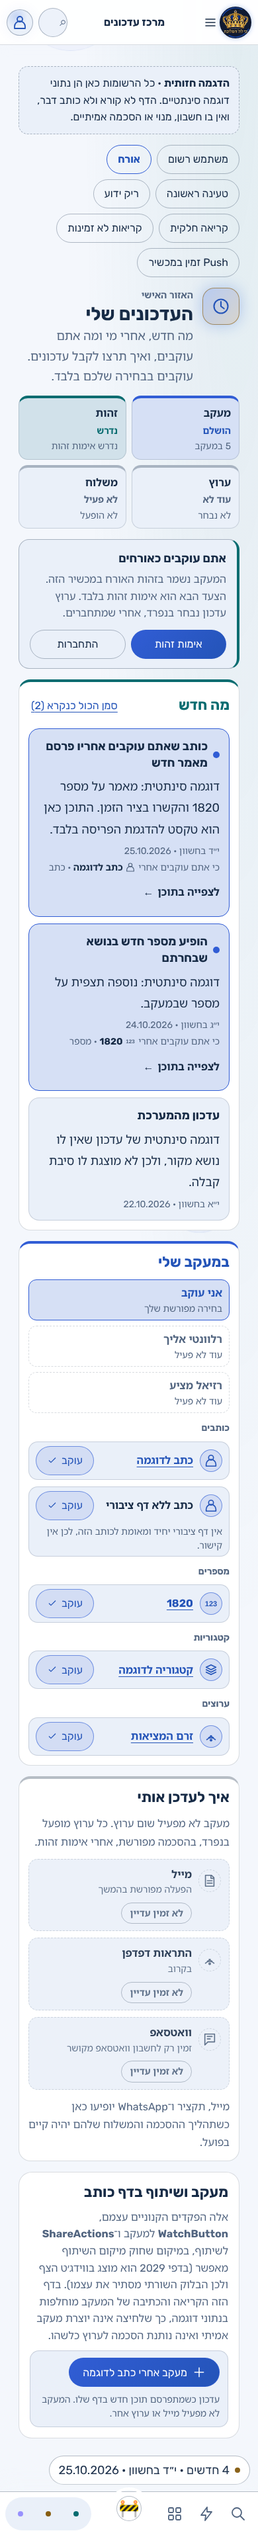
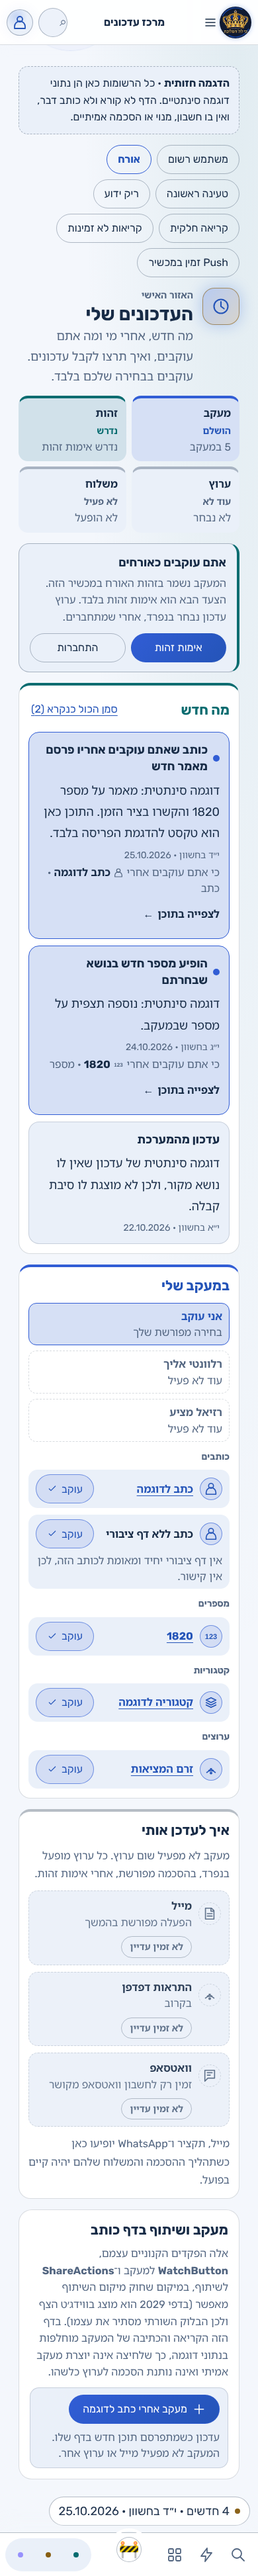
feat(2029): Follow Center typography tokens, quieter hierarchy and floors for the real identity slot
Design V2 5.1/5.3: canonical type tokens, supporting copy at least 15px on desktop. The actual EmailVerify slot inside
the 2029 watch card is scoped to the type floors, 44px targets and preset roles (component unchanged).

Claude-Session: https://claude.ai/code/session_018Ps33Uv6JND2xDR3bPRDa3

diff --git a/src/components/followCenter2029/followCenter2029.css b/src/components/followCenter2029/followCenter2029.css
@@ -4,57 +4,57 @@
 .fc h1,.fc h2,.fc h3,.fc p,.fc ul,.fc ol{margin:0;padding:0}
 .fc ul,.fc ol{list-style:none}
 .fc-head{display:grid;gap:14px}
-.fc-eyebrow{font-size:14px;font-weight:700}
+.fc-eyebrow{font-size:var(--s29-type-micro,14px);font-weight:700}
 .fc h1{font:700 clamp(28px,5vw,40px)/1.25 var(--s29-font-display,inherit);overflow-wrap:anywhere}
-.fc-lede{color:var(--s29-muted);font-size:18px;line-height:1.7;max-width:66ch;margin-top:6px}
+.fc-lede{color:var(--s29-muted);font-size:var(--s29-type-body,18px);line-height:1.7;max-width:66ch;margin-top:6px}
 .fc-life{display:grid;grid-template-columns:repeat(4,minmax(0,1fr));gap:8px}
 .fc-life li{display:grid;gap:2px;border:1px solid var(--s29-line);border-radius:14px;background:var(--s29-panel-soft);padding:10px 12px;min-width:0}
-.fc-life b{font-size:16px}
-.fc-life small{color:var(--s29-muted);font-size:14px;line-height:1.4}
-.fc-life-state{font-size:14px;font-weight:700;color:var(--s29-muted)}
-.fc-note,.fc-note-plain,.fc-empty{color:var(--s29-muted);font-size:16px;line-height:1.7}
-.fc-note-plain{font-size:16px}
+.fc-life b{font-size:var(--s29-type-ui,16px)}
+.fc-life small{color:var(--s29-muted);font-size:var(--s29-type-small,16px);line-height:1.4}
+.fc-life-state{font-size:var(--s29-type-micro,14px);font-weight:700;color:var(--s29-muted)}
+.fc-note,.fc-note-plain,.fc-empty{color:var(--s29-muted);font-size:var(--s29-type-ui,16px);line-height:1.7}
+.fc-note-plain{font-size:var(--s29-type-ui,16px)}
 .fc-note-alert{display:flex;flex-wrap:wrap;align-items:center;gap:10px 14px;border:1px solid var(--s29-line-strong);border-radius:14px;padding:12px 14px;color:var(--s29-ink);background:var(--s29-panel-soft)}
 .fc-empty{border:1px dashed var(--s29-line-strong);border-radius:14px;padding:16px}
 .fc-guest{display:flex;flex-wrap:wrap;align-items:center;justify-content:space-between;gap:12px 18px;border:1px solid var(--s29-line-strong);border-inline-start:4px solid var(--s29-discovery);border-radius:16px;background:var(--s29-panel-soft);padding:14px 16px}
-.fc-guest strong{font-size:18px}
-.fc-guest p{color:var(--s29-muted);font-size:16px;max-width:62ch;margin-top:4px}
+.fc-guest strong{font-size:var(--s29-type-body,18px)}
+.fc-guest p{color:var(--s29-muted);font-size:var(--s29-type-ui,16px);max-width:62ch;margin-top:4px}
 .fc-actions{display:flex;flex-wrap:wrap;gap:8px}
 .fc-grid{display:grid;grid-template-columns:minmax(0,1.35fr) minmax(0,1fr);gap:var(--fc-gap);align-items:start}
 .fc-side{display:grid;gap:var(--fc-gap);min-width:0}
 .fc-card{display:grid;gap:12px;border:1px solid var(--s29-line);border-radius:20px;background:var(--s29-panel);padding:16px;min-width:0}
 .fc-card-head{display:flex;align-items:center;justify-content:space-between;gap:10px;flex-wrap:wrap}
-.fc h2{font:700 22px/1.3 var(--s29-font-display,inherit)}
-.fc h3{font-size:16px;font-weight:700}
+.fc h2{font:700 var(--s29-type-lead,21px)/1.3 var(--s29-font-display,inherit)}
+.fc h3{font-size:var(--s29-type-ui,16px);font-weight:700}
 .fc-group{display:grid;gap:8px}
-.fc-group h3{color:var(--s29-muted);font-size:14px;font-weight:700}
+.fc-group h3{color:var(--s29-muted);font-size:var(--s29-type-micro,14px);font-weight:700}
 .fc-list{display:grid;gap:10px}
 .fc-update{display:grid;gap:6px;border:1px solid var(--s29-line);border-radius:16px;background:var(--s29-panel-soft);padding:14px}
 .fc-update-top{display:flex;align-items:center;gap:8px}
-.fc-update h3{font-size:18px;line-height:1.4;overflow-wrap:anywhere}
+.fc-update h3{font-size:var(--s29-type-body,18px);line-height:1.4;overflow-wrap:anywhere}
 .fc-dot{width:10px;height:10px;border-radius:50%;background:var(--s29-accent);flex:0 0 auto}
-.fc-body{font-size:18px;line-height:1.8;max-width:66ch;overflow-wrap:anywhere}
-.fc-meta{display:flex;flex-wrap:wrap;gap:4px 14px;color:var(--s29-muted);font-size:14px;line-height:1.5}
+.fc-body{font-size:var(--s29-type-body,18px);line-height:1.8;max-width:66ch;overflow-wrap:anywhere}
+.fc-meta{display:flex;flex-wrap:wrap;gap:4px 14px;color:var(--s29-muted);font-size:var(--s29-type-small,16px);line-height:1.5}
 .fc-why b{color:var(--s29-ink);font-weight:700}
 .fc-open{display:inline-flex;align-items:center;gap:6px;min-height:44px;color:var(--s29-accent-text);font-weight:700;text-decoration:underline;text-underline-offset:4px;justify-self:start}
 .fc-inputs{display:grid;grid-template-columns:repeat(3,minmax(0,1fr));gap:8px}
-.fc-inputs li{display:grid;gap:2px;border:1px solid var(--s29-line);border-radius:12px;padding:8px 10px;color:var(--s29-muted);font-size:14px;line-height:1.4}
-.fc-inputs b{font-size:16px;color:var(--s29-muted)}
+.fc-inputs li{display:grid;gap:2px;border:1px solid var(--s29-line);border-radius:12px;padding:8px 10px;color:var(--s29-muted);font-size:var(--s29-type-small,16px);line-height:1.4}
+.fc-inputs b{font-size:var(--s29-type-ui,16px);color:var(--s29-muted)}
 .fc-follow-row{display:grid;grid-template-columns:auto minmax(0,1fr) auto;align-items:center;gap:6px 10px;border:1px solid var(--s29-line);border-radius:14px;background:var(--s29-panel-soft);padding:6px 10px}
 .fc-follow-row[data-change=failed]{border-color:var(--s29-line-strong)}
-.fc-row-error,.fc-row-note{grid-column:1/-1;font-size:14px;line-height:1.5;padding-bottom:6px}
+.fc-row-error,.fc-row-note{grid-column:1/-1;font-size:var(--s29-type-small,16px);line-height:1.5;padding-bottom:6px}
 .fc-row-error{color:var(--s29-ink);font-weight:700}
 .fc-row-note{color:var(--s29-muted)}
 .fc-icon-sm{display:inline-grid;vertical-align:-3px;color:var(--s29-muted)}
 .fc-btn svg{margin-inline-start:6px}
-.fc-name{min-height:44px;display:inline-flex;align-items:center;font-size:16px;font-weight:700;color:var(--s29-ink);overflow-wrap:anywhere;text-decoration:none}
+.fc-name{min-height:44px;display:inline-flex;align-items:center;font-size:var(--s29-type-ui,16px);font-weight:700;color:var(--s29-ink);overflow-wrap:anywhere;text-decoration:none}
 a.fc-name{color:var(--s29-accent-text);text-decoration:underline;text-underline-offset:4px}
 .fc-channel{display:grid;grid-template-columns:auto minmax(0,1fr) auto;align-items:center;gap:10px;border:1px solid var(--s29-line);border-radius:14px;padding:10px 12px;background:var(--s29-panel-soft)}
 .fc-channel[data-available=false]{opacity:.9}
-.fc-channel strong{display:block;font-size:16px}
-.fc-channel small{display:block;color:var(--s29-muted);font-size:14px;line-height:1.4}
-.fc-chip{border:1px solid var(--s29-line-strong);border-radius:999px;padding:4px 12px;font-size:14px;font-weight:700;color:var(--s29-muted);white-space:nowrap}
-.fc-btn,.fc-link{min-height:44px;min-width:44px;display:inline-flex;align-items:center;justify-content:center;padding:8px 16px;border-radius:999px;border:1px solid var(--s29-line-strong);background:transparent;color:var(--s29-ink);font:inherit;font-size:16px;font-weight:700;cursor:pointer}
+.fc-channel strong{display:block;font-size:var(--s29-type-ui,16px)}
+.fc-channel small{display:block;color:var(--s29-muted);font-size:var(--s29-type-small,16px);line-height:1.4}
+.fc-chip{border:1px solid var(--s29-line-strong);border-radius:999px;padding:4px 12px;font-size:var(--s29-type-micro,14px);font-weight:700;color:var(--s29-muted);white-space:nowrap}
+.fc-btn,.fc-link{min-height:44px;min-width:44px;display:inline-flex;align-items:center;justify-content:center;padding:8px 16px;border-radius:999px;border:1px solid var(--s29-line-strong);background:transparent;color:var(--s29-ink);font:inherit;font-size:var(--s29-type-ui,16px);font-weight:700;cursor:pointer}
 .fc-link{border:0;color:var(--s29-accent-text);text-decoration:underline;text-underline-offset:4px;padding-inline:4px}
 .fc-primary{background:var(--s29-accent-btn,var(--s29-accent));border-color:transparent;color:var(--s29-on-accent,#fff)}
 .fc-btn:disabled{cursor:progress;opacity:.75}
@@ -67,16 +67,16 @@ a.fc-name{color:var(--s29-accent-text);text-decoration:underline;text-underline-
 .fcp{display:grid;gap:16px;padding:16px;max-width:1140px;margin-inline:auto;color:var(--s29-ink);font-family:var(--s29-font-ui,'Rubik','Noto Sans Hebrew',Arial,sans-serif);font-size:16px;line-height:1.6;min-width:0}
 .fcp-banner{border:1px dashed var(--s29-line-strong);border-radius:14px;background:var(--s29-panel-soft);padding:12px 14px;font-size:16px}
 .fcp-states{display:flex;flex-wrap:wrap;gap:8px}
-.fcp-states button{min-height:44px;padding:8px 16px;border-radius:999px;border:1px solid var(--s29-line-strong);background:transparent;color:var(--s29-ink);font:inherit;font-size:16px;cursor:pointer}
+.fcp-states button{min-height:44px;padding:8px 16px;border-radius:999px;border:1px solid var(--s29-line-strong);background:transparent;color:var(--s29-ink);font:inherit;font-size:var(--s29-type-ui,16px);cursor:pointer}
 .fcp-states button[aria-pressed=true]{border-color:var(--s29-accent);color:var(--s29-accent-text);font-weight:700}
 .fcp button:focus-visible{outline:3px solid var(--s29-focus-ring);outline-offset:3px}
 .fcp-specimen{display:grid;gap:10px;border:1px solid var(--s29-line);border-radius:20px;background:var(--s29-panel);padding:16px}
-.fcp-specimen h2{margin:0;font:700 22px/1.3 var(--s29-font-display,inherit)}
+.fcp-specimen h2{margin:0;font:700 var(--s29-type-lead,21px)/1.3 var(--s29-font-display,inherit)}
 .fcp-specimen p{margin:0;color:var(--s29-muted);max-width:66ch}
 .fcp-spec-row{display:flex;flex-wrap:wrap;align-items:center;gap:10px 12px;border:1px solid var(--s29-line);border-radius:14px;background:var(--s29-panel-soft);padding:10px 12px}
 .fcp-spec-row>div{flex:1 1 220px;min-width:0}
-.fcp-spec-row strong{display:block;font-size:16px}
-.fcp-spec-row small{display:block;color:var(--s29-muted);font-size:14px;line-height:1.4}
+.fcp-spec-row strong{display:block;font-size:var(--s29-type-ui,16px)}
+.fcp-spec-row small{display:block;color:var(--s29-muted);font-size:var(--s29-type-small,16px);line-height:1.4}
 
 /* Colour comes only from the shared treatment roles (--tr-*) supplied per element by the shared resolver in palette.js.
    This stylesheet owns layout and requests no glyph- or subject-based colour of its own. */
@@ -96,3 +96,10 @@ a.fc-name{color:var(--s29-accent-text);text-decoration:underline;text-underline-
 .fc-chip[data-on=true]{border-color:var(--tr-line);color:var(--tr-fg)}
 .fc-channel[data-available=false]{border-style:dashed}
 /* Preview-only chrome (synthetic-data banner, state switcher, writer-page specimen) */
+
+.fc-meta time{font-size:var(--s29-type-micro,14px)}
+/* Quieter structure: rows sit on the soft surface without a second outline; outlines remain for selection, state and unavailability. */
+.fc-follow-row,.fc-channel,.fc-life li{border-color:transparent}
+.fc-follow-row[data-change=failed]{border-color:var(--s29-line-strong)}
+.fc-life li{border-top-color:var(--tr-line,var(--s29-line-strong))}
+.fc-channel[data-available=false],.fc-inputs li[data-active=false]{border-color:var(--s29-line)}

diff --git a/src/components/followCenter2029/watchControl2029.css b/src/components/followCenter2029/watchControl2029.css
@@ -2,17 +2,29 @@
 .sod29-watch{display:grid;gap:8px;justify-items:start;font-family:var(--s29-font-ui,'Rubik','Noto Sans Hebrew',Arial,sans-serif);color:var(--s29-ink);min-width:0;max-width:100%}
 .sod29-watch *{box-sizing:border-box}
 .sod29-watch p{margin:0}
-.sod29-watch-btn{min-height:44px;min-width:44px;display:inline-flex;align-items:center;justify-content:center;gap:8px;padding:8px 20px;border-radius:999px;border:1px solid var(--tr-border);background:var(--s29-accent-btn,var(--s29-accent));color:var(--s29-on-accent,#fff);font:inherit;font-size:16px;font-weight:700;cursor:pointer}
+.sod29-watch-btn{min-height:44px;min-width:44px;display:inline-flex;align-items:center;justify-content:center;gap:8px;padding:8px 20px;border-radius:999px;border:1px solid var(--tr-border);background:var(--s29-accent-btn,var(--s29-accent));color:var(--s29-on-accent,#fff);font:inherit;font-size:var(--s29-type-ui,16px);font-weight:700;cursor:pointer}
 .sod29-watch[data-following=true] .sod29-watch-btn{background:var(--tr-bg);color:var(--tr-fg)}
 .sod29-watch[data-state=loading] .sod29-watch-btn,.sod29-watch[data-state=unknown] .sod29-watch-btn{background:transparent;color:var(--tr-fg);cursor:progress}
 .sod29-watch-btn:disabled{cursor:progress}
 .sod29-watch-btn-secondary{background:transparent;color:var(--s29-accent-text);border-color:var(--s29-line-strong)}
-.sod29-watch-note{color:var(--s29-muted);font-size:14px;line-height:1.5;max-width:56ch}
-.sod29-watch-alert{display:flex;flex-wrap:wrap;align-items:center;gap:4px 10px;color:var(--s29-ink);font-size:14px;line-height:1.5;border:1px solid var(--s29-line-strong);border-radius:12px;background:var(--s29-panel-soft);padding:8px 12px}
-.sod29-watch-retry{min-height:44px;min-width:44px;border:0;background:transparent;color:var(--s29-accent-text);font:inherit;font-size:16px;font-weight:700;text-decoration:underline;text-underline-offset:4px;cursor:pointer}
+.sod29-watch-note{color:var(--s29-muted);font-size:var(--s29-type-small,16px);line-height:1.5;max-width:56ch}
+.sod29-watch-alert{display:flex;flex-wrap:wrap;align-items:center;gap:4px 10px;color:var(--s29-ink);font-size:var(--s29-type-small,16px);line-height:1.5;border:1px solid var(--s29-line-strong);border-radius:12px;background:var(--s29-panel-soft);padding:8px 12px}
+.sod29-watch-retry{min-height:44px;min-width:44px;border:0;background:transparent;color:var(--s29-accent-text);font:inherit;font-size:var(--s29-type-ui,16px);font-weight:700;text-decoration:underline;text-underline-offset:4px;cursor:pointer}
 .sod29-watch-card{display:grid;gap:8px;justify-items:start;border:1px dashed var(--s29-line-strong);border-radius:16px;background:var(--s29-panel-soft);padding:12px 14px;max-width:100%}
 .sod29-watch-card-head{display:flex;align-items:center;gap:10px}
-.sod29-watch-card-head strong{font-size:16px}
-.sod29-watch-card p{color:var(--s29-muted);font-size:14px;line-height:1.5}
+.sod29-watch-card-head strong{font-size:var(--s29-type-ui,16px)}
+.sod29-watch-card p{color:var(--s29-muted);font-size:var(--s29-type-small,16px);line-height:1.5}
 .sod29-watch button:focus-visible{outline:3px solid var(--s29-focus-ring);outline-offset:3px}
 @media(prefers-reduced-motion:reduce){.sod29-watch *{transition:none!important;animation:none!important}}
+
+/* The real identity slot (EmailVerify) keeps its own logic and markup; its legacy inline sizes and dark-theme colours are
+   scoped here to the Design V2 floors and the preset's roles, only inside this card. */
+.sod29-watch-card form{width:100%;max-width:100%!important;margin:0!important}
+.sod29-watch-card form div{color:var(--s29-muted)!important;font-size:var(--s29-type-small,16px)!important;line-height:1.6!important}
+.sod29-watch-card form span{color:var(--s29-ink)!important}
+.sod29-watch-card input{min-height:44px!important;box-sizing:border-box!important;font-size:var(--s29-type-ui,16px)!important;color:var(--s29-ink)!important;background:var(--s29-panel)!important;border:1px solid var(--s29-line-strong)!important}
+.sod29-watch-card input[maxlength]{font-size:var(--s29-type-lead,21px)!important}
+.sod29-watch-card form button{min-height:44px!important;min-width:44px!important;font-size:var(--s29-type-ui,16px)!important;font-weight:700!important;color:var(--s29-accent-text)!important;background:transparent!important;border:1px solid var(--s29-line-strong)!important;border-radius:999px!important;opacity:1!important;cursor:pointer}
+.sod29-watch-card form button[type=submit]{color:var(--s29-on-accent,#fff)!important;background:var(--s29-accent-btn,var(--s29-accent))!important;border-color:transparent!important}
+.sod29-watch-card form button:disabled{cursor:progress;opacity:.75!important}
+.sod29-watch-card form div[role=alert],.sod29-watch-card form div:has(+ button[type=submit]):empty{color:var(--s29-ink)!important}

diff --git a/test/fixtures/follow-identity-slot-2029.jsx b/test/fixtures/follow-identity-slot-2029.jsx
@@ -1,0 +1,25 @@
+import React, { useMemo } from "react";
+import { createRoot } from "react-dom/client";
+import { BrowserRouter } from "react-router-dom";
+import { AuthProvider } from "../../src/lib/AuthContext.jsx";
+import { use2029Palette } from "../../src/lib/palette.js";
+import WatchButton from "../../src/components/WatchButton.jsx";
+
+// Test-only: the REAL WatchButton variant 2029 with a saved guest follow, so the REAL EmailVerify identity slot renders.
+// Follow I/O is an instance fake; every external request is blocked or answered by the test harness (no mail, no OTP, no write).
+const TOPIC = "author:בדיקה";
+const tokens = (p) => ({
+  "--s29-ink": p.ink, "--s29-muted": p.inkSoft, "--s29-line": p.border, "--s29-line-strong": p.borderStrong, "--s29-panel": p.card, "--s29-panel-soft": p.cardSoft,
+  "--s29-accent": p.accent, "--s29-accent-text": p.accentText, "--s29-accent-btn": p.accentBtn, "--s29-on-accent": p.onAccent, "--s29-focus-ring": p.focusRing,
+  "--s29-discovery": p.accentDiscovery, "--s29-font-ui": "Rubik, Arial, sans-serif", "--s29-type-micro": "14px", "--s29-type-ui": "16px", "--s29-type-small": "16px", "--s29-type-body": "18px",
+});
+function Review() {
+  const palette = use2029Palette();
+  const io = useMemo(() => ({ read: async () => ({ topics: [TOPIC], channels: [] }), toggle: async () => ({ ok: true }), track: () => {} }), []);
+  return <main dir="rtl" style={{ ...tokens(palette), background: palette.pageBg, color: palette.ink, padding: 16, minHeight: "100vh" }}>
+    <div style={{ background: palette.card, border: `1px solid ${palette.border}`, borderRadius: 16, padding: 16 }}>
+      <WatchButton variant="2029" topic={TOPIC} source="identity-slot-fixture" label="מעקב בדיקה" noPush followIO={io} />
+    </div>
+  </main>;
+}
+createRoot(document.getElementById("root")).render(<BrowserRouter><AuthProvider><Review /></AuthProvider></BrowserRouter>);

diff --git a/test/follow-identity-slot-2029.browser.py b/test/follow-identity-slot-2029.browser.py
@@ -1,0 +1,96 @@
+"""Actual EmailVerify identity slot inside the WatchButton 2029 card: computed type floors, targets, contrast, focus.
+Run against Vite (FOLLOW_SLOT_PORT, default 5311). All external requests are blocked; the Supabase OTP endpoint is answered with a
+synthetic empty success so the code step renders. No mail, OTP, subscription or account write happens.
+"""
+import json, os, sys
+from pathlib import Path
+from urllib.parse import urlparse
+from playwright.sync_api import sync_playwright, expect
+
+OUT = Path(os.environ.get('FOLLOW_SLOT_OUT', '/tmp/follow-identity-slot')); OUT.mkdir(parents=True, exist_ok=True)
+BASE = 'http://127.0.0.1:' + os.environ.get('FOLLOW_SLOT_PORT', '5311')
+CHROMIUM = os.environ.get('CHROMIUM_PATH', '/usr/bin/chromium')
+HTML = '''<!doctype html><html lang="he" dir="rtl"><meta charset="UTF-8"><meta name="viewport" content="width=device-width,initial-scale=1"><body><div id="root"></div>
+<script type="module">import RefreshRuntime from '/@react-refresh';RefreshRuntime.injectIntoGlobalHook(window);window.$RefreshReg$=()=>{};window.$RefreshSig$=()=>type=>type;window.__vite_plugin_react_preamble_installed__=true;</script>
+<script type="module" src="/test/fixtures/follow-identity-slot-2029.jsx"></script></body></html>'''
+report = {'cases': [], 'external': [], 'errors': []}
+STRICT = '--strict' in sys.argv   # fail on floors; without it the run only measures
+
+
+def lum(c):
+    v = [x / 255 for x in c]; v = [x / 12.92 if x <= 0.03928 else ((x + 0.055) / 1.055) ** 2.4 for x in v]
+    return 0.2126 * v[0] + 0.7152 * v[1] + 0.0722 * v[2]
+
+
+def rgb(s): return tuple(int(float(n)) for n in s[s.index('(') + 1:s.index(')')].replace('/', ',').replace(' ', ',').split(',') if n.strip())[:3]
+
+
+def ratio(a, b):
+    hi, lo = sorted((lum(a), lum(b)), reverse=True); return (hi + 0.05) / (lo + 0.05)
+
+
+MEASURE = """() => { const root = document.querySelector('.sod29-watch-card'); const out = []; if (!root) return out;
+  const bg = (n) => { for (let e = n; e; e = e.parentElement) { if (getComputedStyle(e).backgroundImage.includes('gradient')) return 'rgb(49, 93, 213)'; const c = getComputedStyle(e).backgroundColor; const m = c.match(/rgba?\\(([^)]+)\\)/); if (m) { const p = m[1].split(',').map(Number); if (p.length === 3 || p[3] > 0.9) return c; } } return 'rgb(255,255,255)'; };
+  const walker = document.createTreeWalker(root, NodeFilter.SHOW_TEXT);
+  for (let n = walker.nextNode(); n; n = walker.nextNode()) { const t = n.textContent.trim(); const el = n.parentElement; if (!t || !el.offsetParent) continue; const s = getComputedStyle(el);
+    out.push({ kind: 'text', text: t.slice(0, 28), size: parseFloat(s.fontSize), color: s.color, bg: bg(el) }); }
+  for (const el of root.querySelectorAll('input, button, a[href]')) { if (!el.offsetParent) continue; const b = el.getBoundingClientRect(); const s = getComputedStyle(el);
+    out.push({ kind: el.tagName.toLowerCase(), text: (el.innerText || el.placeholder || '').slice(0, 20), w: Math.round(b.width), h: Math.round(b.height), size: parseFloat(s.fontSize) }); }
+  return out; }"""
+
+
+def run(browser, theme, width, step):
+    ctx = browser.new_context(viewport={'width': width, 'height': 900})
+    ctx.add_init_script("localStorage.setItem('sod-theme'," + json.dumps(theme) + ")")
+    page = ctx.new_page()
+    page.on('pageerror', lambda e: report['errors'].append(str(e)))
+    def route(r):
+        u = urlparse(r.request.url)
+        if u.hostname == '127.0.0.1':
+            if u.path == '/follow-identity-slot' and r.request.is_navigation_request(): return r.fulfill(content_type='text/html', body=HTML)
+            return r.continue_()
+        if u.hostname and u.hostname.endswith('supabase.co') and '/auth/v1/otp' in u.path:
+            return r.fulfill(status=200, content_type='application/json', body='{}', headers={'access-control-allow-origin': '*'})
+        if r.request.method == 'OPTIONS': return r.fulfill(status=204, headers={'access-control-allow-origin': '*', 'access-control-allow-headers': '*', 'access-control-allow-methods': '*'})
+        report['external'].append(r.request.method + ' ' + u.hostname + u.path); return r.abort()
+    page.route('**/*', route)
+    page.goto(BASE + '/follow-identity-slot')
+    page.get_by_role('button', name='אימות חשבון', exact=True).click()
+    page.locator('.sod29-watch-card input').first.wait_for(timeout=15000)
+    if step >= 1:
+        page.locator('.sod29-watch-card input').first.fill('nobody@example.invalid')
+        page.locator('.sod29-watch-card button[type=submit]').click()
+        page.locator('.sod29-watch-card input[inputmode], .sod29-watch-card form >> text=שלחנו קוד').first.wait_for(timeout=15000)
+    if step >= 2:  # error state: empty code submit
+        page.locator('.sod29-watch-card button[type=submit]').click(); page.wait_for_timeout(500)
+    page.screenshot(path=str(OUT / f'slot-{theme}-{width}-step{step}.png'))
+    items = page.evaluate(MEASURE)
+    ctx.close()
+    return items
+
+
+problems = []
+with sync_playwright() as p:
+    browser = p.chromium.launch(executable_path=CHROMIUM, headless=True, args=['--no-sandbox'])
+    for theme in ('light', 'parchment', 'dark'):
+        for width in (390, 1440):
+            for step in (0, 1, 2):
+                items = run(browser, theme, width, step)
+                floor = 15 if width >= 1024 else 14
+                for it in items:
+                    tag = (theme, width, step, it.get('text'))
+                    if it['kind'] == 'text':
+                        if it['size'] < floor: problems.append(('size', it['size'], tag))
+                        fg, bgc = rgb(it['color']), rgb(it['bg'])
+                        if ratio(fg, bgc) < 4.5: problems.append(('contrast', round(ratio(fg, bgc), 2), tag))
+                    else:
+                        if it.get('h', 99) < 43.5 or it.get('w', 99) < 43.5: problems.append(('target', (it['w'], it['h']), tag))
+                        if it['size'] < 16 and it['kind'] != 'a': problems.append(('control-size', it['size'], tag))
+                report['cases'].append([theme, width, step, len(items)])
+    browser.close()
+report['problems'] = len(problems); report['sample'] = [list(map(str, x)) for x in problems[:25]]
+print(json.dumps(report, ensure_ascii=False))
+assert not report['errors'], report['errors']
+assert not report['external'], report['external']
+if STRICT: assert not problems, problems[:10]
+print('follow identity slot 2029:', 'PASS' if not problems else f'MEASURED {len(problems)} problems')

diff --git a/test/follow-center-visual-2029.browser.py b/test/follow-center-visual-2029.browser.py
@@ -96,7 +96,9 @@ AUDIT = """() => {
   for (let n = walker.nextNode(); n; n = walker.nextNode()) {
     if (!n.textContent.trim() || !n.parentElement.offsetParent || skip(n.parentElement)) continue;
     const size = parseFloat(getComputedStyle(n.parentElement).fontSize);
-    if (size < 14 && !n.parentElement.closest('[aria-hidden=true]')) out.small.push([n.textContent.trim().slice(0, 30), size]);
+    const tertiary = n.parentElement.closest('.fc-eyebrow, .fc-meta time, .fc-life-state, .fc-chip, .fc-group h3');   // Design V2 5.1: short tertiary labels only
+    const floor = innerWidth >= 1024 && !tertiary ? 15 : 14;
+    if (size < floor && !n.parentElement.closest('[aria-hidden=true]')) out.small.push([n.textContent.trim().slice(0, 30), size]);
   }
   for (const el of root.querySelectorAll('button, a[href]')) {
     if (!el.offsetParent || skip(el)) continue; const b = el.getBoundingClientRect();
@@ -107,7 +109,7 @@ AUDIT = """() => {
 
 SPECIMEN = """() => { const out = { smallText: [], smallTargets: [], emoji: false }; const root = document.querySelector('.fcp-specimen');
   const walker = document.createTreeWalker(root, NodeFilter.SHOW_TEXT);
-  for (let n = walker.nextNode(); n; n = walker.nextNode()) { if (!n.textContent.trim() || !n.parentElement.offsetParent) continue; const size = parseFloat(getComputedStyle(n.parentElement).fontSize); if (size < 14) out.smallText.push(size); if (/[\\u{1F300}-\\u{1FAFF}]/u.test(n.textContent)) out.emoji = true; }
+  for (let n = walker.nextNode(); n; n = walker.nextNode()) { if (!n.textContent.trim() || !n.parentElement.offsetParent) continue; const size = parseFloat(getComputedStyle(n.parentElement).fontSize); if (size < (innerWidth >= 1024 ? 15 : 14)) out.smallText.push(size); if (/[\\u{1F300}-\\u{1FAFF}]/u.test(n.textContent)) out.emoji = true; }
   for (const el of root.querySelectorAll('button, a[href]')) { if (!el.offsetParent) continue; const b = el.getBoundingClientRect(); if (b.height < 43.5 || b.width < 43.5) out.smallTargets.push([Math.round(b.width), Math.round(b.height)]); }
   return out; }"""
 report['specimen_findings'] = {}
@@ -190,6 +192,13 @@ def check(browser, state, width, theme):
             node = page.locator(selector).first
             fg = rgb(node.evaluate('n => getComputedStyle(n).color')); bg = rgb(node.evaluate(BG))
             assert ratio(fg, bg) >= 4.5, ('contrast', selector, round(ratio(fg, bg), 2), fg, bg, tag)
+        if width == 1440:
+            def px(selector): return page.locator(selector).first.evaluate('n => parseFloat(getComputedStyle(n).fontSize)')
+            assert px('.fc-lede') >= 18 and px('.fc-body') >= 18 and px('.fc-update h3') >= 18, ('body/reading copy 18', tag)
+            assert px('.fc-name') >= 16 and px('.fc-btn') >= 16 and px('.fc-open') >= 16 and px('.fc-life b') >= 16, ('UI labels 16', tag)
+            for sel in ('.fc-why', '.fc-life small', '.fc-inputs li span', '.fc-channel small', '.fc-row-note', '.fc-note-plain'):
+                assert px(sel) >= 15, ('supporting sentence 15 at desktop', sel, tag)
+            assert px('.fc-eyebrow') == 14 and px('.fc-meta time') == 14, ('micro token only for short tertiary labels', tag)
         # Owner-resolved purpose and state (shared treatment), not a count of hues.
         muted = rgb(page.locator('.fc-lede').evaluate('n => getComputedStyle(n).color'))
         tiles = page.locator('.sod29-icon-tile')

diff --git a/docs/reviews/follow-center-visual-20261025.md b/docs/reviews/follow-center-visual-20261025.md
@@ -70,3 +70,12 @@ Tests: `test/watch-button-2029.test.mjs` (seam, no emoji, no IO in the view, flo
 in all presets and widths; unknown state is gated with a visible message; confirmed state; no real write), and the existing writer visual family,
 actions, follow-safety and community-person browser tests re-run unchanged and passing.
 Not changed: other `WatchButton` call sites still use their existing variants (not migrated); no data wiring.
+
+## Typography, hierarchy and the real identity slot (branch `claude/follow-center-presentation-20261025`)
+
+Base: PR #1159 head `baeec829d` (controller predicates `confirmed` / `identityRequired`, scope guards and fixture I/O untouched). BEFORE `56f3d527-b6e7-4d7b-b434-fc2b1395728d`.
+
+- **Type (Design V2 5.1/5.3):** every literal font size in the Follow Center and the WatchButton 2029 view now uses the canonical `--s29-type-*` tokens. Supporting sentences and status copy use the small token (16px, so at least 15px on desktop); the 14px micro token remains only for short tertiary labels (eyebrow, timestamp, state label, chip, group label). UI labels 16, body 18. The browser test reads computed styles at 1440 (support at least 15, UI at least 16, body at least 18, micro only on the allow-listed labels) and 320/390 (at least 14, targets 44px) in all presets.
+- **Hierarchy:** rows sit on the soft surface without a second outline; outlines remain for selection, state, failure and unavailability (dashed). No new colours, roles or glyph taxonomy.
+- **Identity slot audit (actual `EmailVerify`, OTP endpoint answered synthetically, every other request blocked):** measured on the base: inputs and buttons 41-43px high and 15px, support text 12-13px, error colour fixed, and contrast of 1.6:1 on the light presets because the component uses Legacy dark-theme colours inline. The component is unchanged; its sizes, colours and targets are scoped to the Design V2 floors and the preset roles by wrapper CSS inside the 2029 watch card only. Result in all presets at 390/1440 across the email, code and empty-code error steps: 0 problems (`test/follow-identity-slot-2029.browser.py --strict`). The Legacy callers of `EmailVerify` are not changed, so the same component still fails those floors outside this card; that is a separate decision.
+- Regressions: the six actual-component state cases from `watch-button-2029-state.browser.py` pass; the 43-case Follow Center matrix, writer visual family and community-person tests pass.
